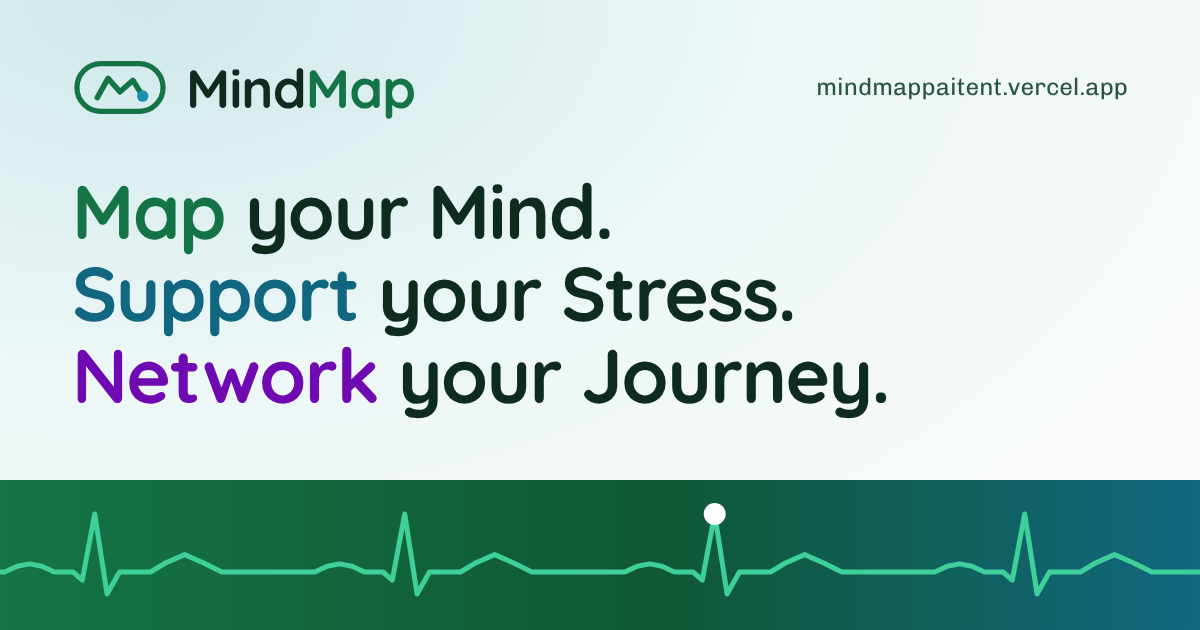
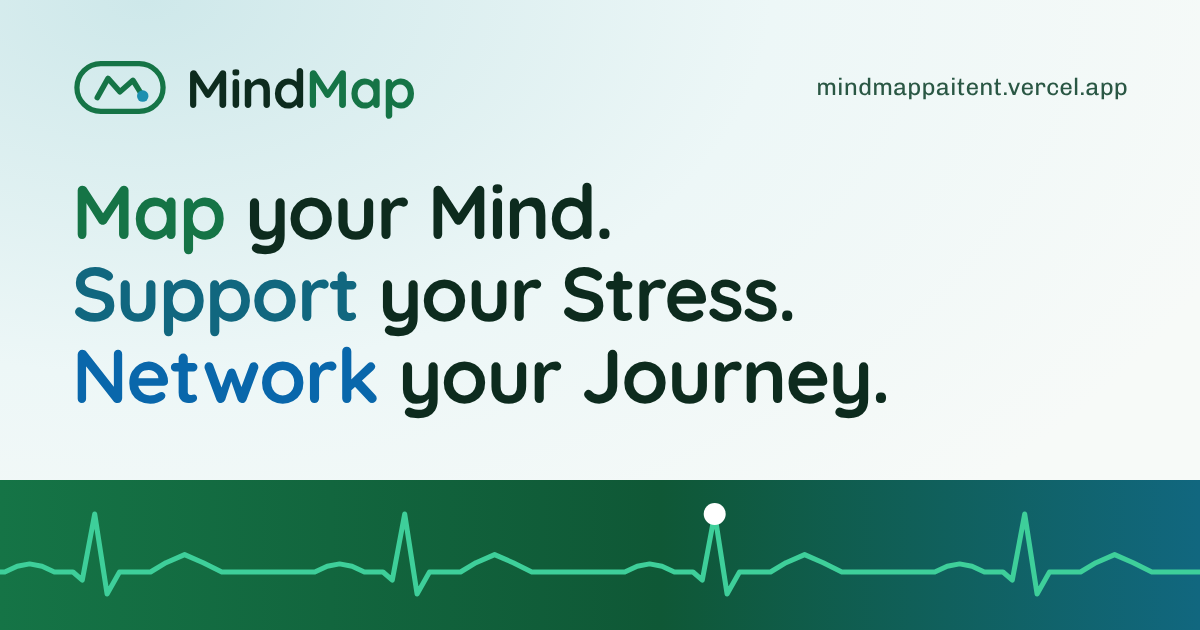
Hero field photograph behind the title, Journey line in blue
Claude-Session: https://claude.ai/code/session_01GFAbVH5GjgABqfeUe9MNdh

Changed region(s): [[0.0617, 0.5429, 0.3083, 0.6635]]

diff --git a/src/views/Overview.jsx b/src/views/Overview.jsx
@@ -16,6 +16,7 @@ import { Different } from './landing/Different'
 import { WhatIs } from './landing/WhatIs'
 import rainbowLg from '../photos/rainbow-field.webp'
 import rainbowSm from '../photos/rainbow-field-sm.webp'
+import heroField from '../photos/hero-field.webp'
 /* The site's vocabulary. Nothing here invents a second name for any of it. */
 import {
   SCORE, NOTES, LOCATION, PRO, PRO_LC,
@@ -156,7 +157,16 @@ export function Overview({ go }) {
           xl:grid-cols-[minmax(0,44rem)_minmax(0,1fr)]
           2xl:grid-cols-[minmax(0,50rem)_minmax(0,1fr)]">
 
-          <div className="flex min-h-0 flex-1 flex-col justify-center py-6 lg:flex-none lg:py-0 lg:pr-10">
+          <div className="relative flex min-h-0 flex-1 flex-col justify-center py-6 lg:flex-none lg:py-0 lg:pr-10">
+            {/* The owner's field photograph, faint behind the title half. It
+                runs out to the viewport's left edge (the section clips it) and
+                a paper veil keeps the words at full contrast. */}
+            <div aria-hidden className="pointer-events-none absolute inset-y-0 -left-[50vw] -right-[22px] -z-10
+              sm:-right-10 lg:right-0">
+              <img src={heroField} alt="" width={728} height={408} decoding="async"
+                className="absolute inset-0 h-full w-full object-cover object-[70%_60%] opacity-[0.34]"/>
+              <div className="absolute inset-0 bg-[linear-gradient(100deg,rgba(247,250,248,0.55)_0%,rgba(247,250,248,0.35)_55%,rgba(247,250,248,0.1)_100%)]"/>
+            </div>
             <ScrollIn as="p" className="mb-4 font-body text-[1.125rem] font-semibold text-accent-ink sm:text-[1.25rem]">
               A wellness app for teenagers
             </ScrollIn>

diff --git a/index.html b/index.html
@@ -38,14 +38,14 @@
 <meta property="og:site_name" content="MindMap">
 <meta property="og:title" content="MindMap, a wellness app for teenagers">
 <meta property="og:description" content="Map your Mind. Support your Stress. Network your Journey.">
-<meta property="og:image" content="https://mindmappaitent.vercel.app/og.png?v=2">
+<meta property="og:image" content="https://mindmappaitent.vercel.app/og.png?v=3">
 <meta property="og:image:width" content="1200">
 <meta property="og:image:height" content="630">
 <meta property="og:image:alt" content="The MindMap logo above three lines: Map your Mind. Support your Stress. Network your Journey. A green band with a heartbeat trace runs along the bottom.">
 <meta name="twitter:card" content="summary_large_image">
 <meta name="twitter:title" content="MindMap, a wellness app for teenagers">
 <meta name="twitter:description" content="Map your Mind. Support your Stress. Network your Journey.">
-<meta name="twitter:image" content="https://mindmappaitent.vercel.app/og.png?v=2">
+<meta name="twitter:image" content="https://mindmappaitent.vercel.app/og.png?v=3">
 </head>
 <body>
 <div id="root"><div style="min-height:60dvh;display:grid;place-content:center;gap:14px;text-align:center;font-family:Quicksand,system-ui,sans-serif">

diff --git a/src/views/apphome/intro.jsx b/src/views/apphome/intro.jsx
@@ -11,7 +11,7 @@ import React from 'react'
 export const LINES = [
   { word: 'Map',     rest: ' your Mind.',    tone: 'text-accent' },
   { word: 'Support', rest: ' your Stress.',  tone: 'text-beam-ink' },
-  { word: 'Network', rest: ' your Journey.', tone: 'text-lilac-ink' },
+  { word: 'Network', rest: ' your Journey.', tone: 'text-sky-ink' },
 ]
 
 export const T = {
